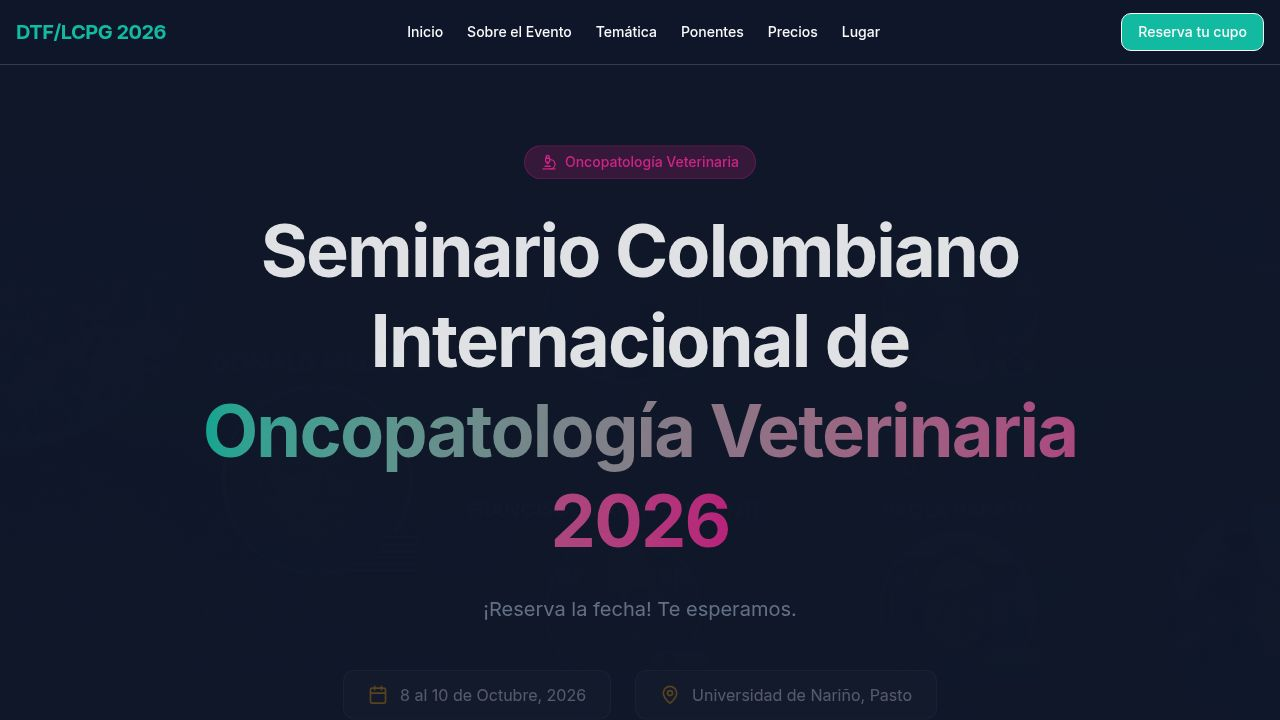
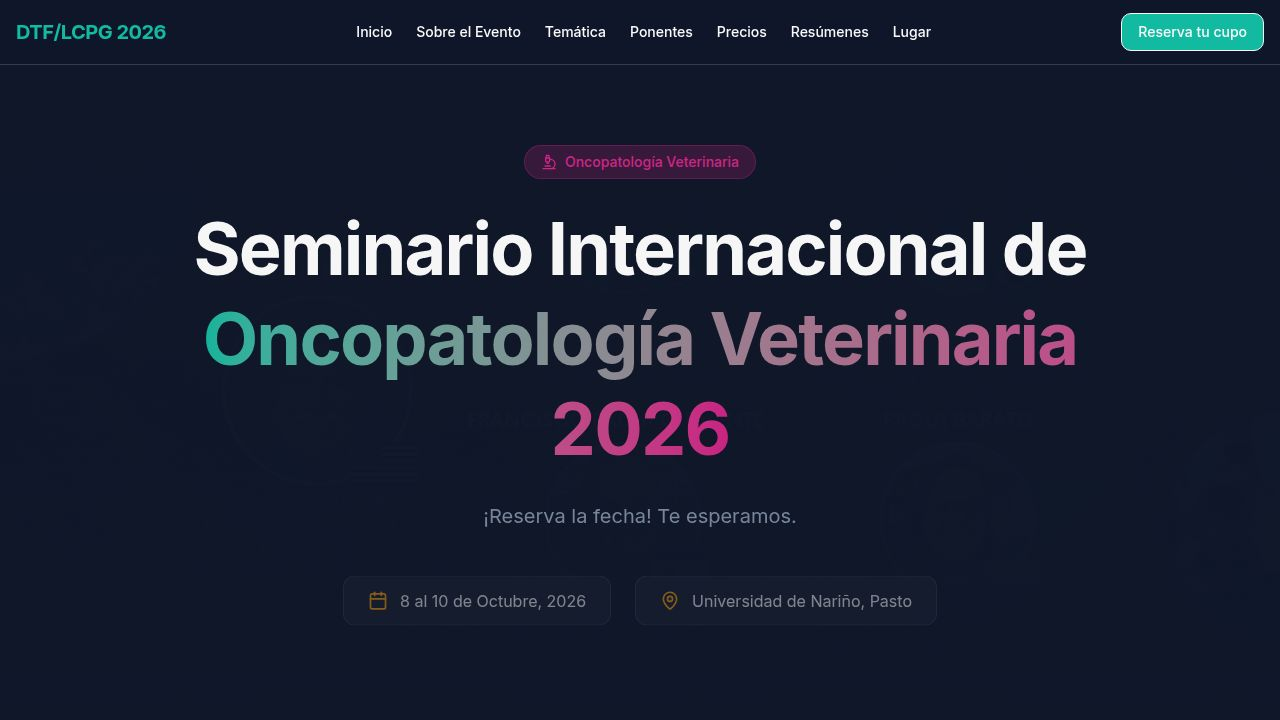
Update the seminar title and add a section for poster abstract submissions
Update the main seminar title and add a new section for scientific poster abstract submissions, including submission details and a link to an external form.

Replit-Commit-Author: Agent
Replit-Commit-Session-Id: 915901ad-4f2d-41da-9350-045fb6e89d9d
Replit-Commit-Checkpoint-Type: full_checkpoint
Replit-Commit-Event-Id: 526079ff-761e-4916-81df-d7132c60a158
Replit-Commit-Screenshot-Url: https://storage.googleapis.com/screenshot-production-us-central1/2b46c752-46d3-47b0-8e8c-2599e17ffcd6/915901ad-4f2d-41da-9350-045fb6e89d9d/qbjjif8
Replit-Helium-Checkpoint-Created: true

diff --git a/artifacts/oncopatologia-2026/src/pages/home.tsx b/artifacts/oncopatologia-2026/src/pages/home.tsx
@@ -1,6 +1,6 @@
 import { Button } from "@/components/ui/button";
 import { Card, CardContent } from "@/components/ui/card";
-import { MapPin, Calendar, Users, Microscope, ChevronDown } from "lucide-react";
+import { MapPin, Calendar, Users, Microscope, ChevronDown, FileText, Award, ClipboardList, BookOpen, Send, CheckCircle2 } from "lucide-react";
 import { motion } from "framer-motion";
 import { Dialog, DialogContent, DialogHeader, DialogTitle, DialogTrigger } from "@/components/ui/dialog";
 
@@ -63,6 +63,7 @@ export default function Home() {
             <a href="#tematica" className="hover:text-primary transition-colors">Temática</a>
             <a href="#ponentes" className="hover:text-primary transition-colors">Ponentes</a>
             <a href="#precios" className="hover:text-primary transition-colors">Precios</a>
+            <a href="#resumenes" className="hover:text-primary transition-colors">Resúmenes</a>
             <a href="#lugar" className="hover:text-primary transition-colors">Lugar</a>
           </div>
           <Button variant="default" className="bg-primary text-primary-foreground hover:bg-primary/90">
@@ -96,7 +97,7 @@ export default function Home() {
             transition={{ duration: 0.8, delay: 0.2 }}
             className="text-4xl md:text-6xl lg:text-7xl font-bold max-w-5xl tracking-tight text-white mb-6 leading-tight"
           >
-            Seminario Colombiano Internacional de <span className="text-transparent bg-clip-text bg-gradient-to-r from-primary to-secondary">Oncopatología Veterinaria 2026</span>
+            Seminario Internacional de <span className="text-transparent bg-clip-text bg-gradient-to-r from-primary to-secondary">Oncopatología Veterinaria 2026</span>
           </motion.h1>
 
           <motion.p 
@@ -348,6 +349,210 @@ export default function Home() {
             <Button size="lg" className="bg-secondary text-white hover:bg-secondary/90 px-8 py-6 text-lg">
               Realizar Pago / Inscripción
             </Button>
+          </div>
+        </div>
+      </section>
+
+      {/* Resúmenes científicos / Pósters */}
+      <section id="resumenes" className="py-24 bg-background relative overflow-hidden">
+        <div className="absolute inset-0 bg-gradient-to-br from-primary/5 via-background to-secondary/5 pointer-events-none"></div>
+        <div className="container mx-auto px-4 max-w-6xl relative z-10">
+          <div className="text-center mb-16">
+            <div className="inline-flex items-center space-x-2 bg-secondary/15 text-secondary border border-secondary/30 px-4 py-1.5 rounded-full text-sm font-medium mb-6">
+              <FileText className="w-4 h-4" />
+              <span>Convocatoria abierta</span>
+            </div>
+            <h2 className="text-3xl md:text-5xl font-bold mb-4">Presentación de Resúmenes Científicos en Pósters</h2>
+            <p className="text-lg text-muted-foreground max-w-3xl mx-auto leading-relaxed">
+              El Comité Organizador invita a profesionales, investigadores, docentes y estudiantes de medicina veterinaria y áreas afines a presentar resúmenes científicos para su exposición en modalidad póster.
+            </p>
+          </div>
+
+          {/* Objetivo */}
+          <div className="grid md:grid-cols-2 gap-6 mb-12">
+            <Card className="bg-card/60 backdrop-blur border-border/60 hover:border-primary/40 transition-colors">
+              <CardContent className="p-8">
+                <div className="flex items-center gap-3 mb-4">
+                  <div className="w-10 h-10 rounded-lg bg-primary/15 flex items-center justify-center">
+                    <BookOpen className="w-5 h-5 text-primary" />
+                  </div>
+                  <h3 className="text-xl font-semibold">Objetivo</h3>
+                </div>
+                <p className="text-muted-foreground leading-relaxed">
+                  Promover la difusión de avances científicos en oncopatología veterinaria y patología comparada del cáncer, con énfasis en el diagnóstico clínico, histopatológico, anatomopatológico y el uso de técnicas innovadoras.
+                </p>
+              </CardContent>
+            </Card>
+
+            <Card className="bg-card/60 backdrop-blur border-border/60 hover:border-secondary/40 transition-colors">
+              <CardContent className="p-8">
+                <div className="flex items-center gap-3 mb-4">
+                  <div className="w-10 h-10 rounded-lg bg-secondary/15 flex items-center justify-center">
+                    <Calendar className="w-5 h-5 text-secondary" />
+                  </div>
+                  <h3 className="text-xl font-semibold">Fechas importantes</h3>
+                </div>
+                <ul className="space-y-3 text-muted-foreground">
+                  <li className="flex justify-between gap-4 pb-2 border-b border-border/40">
+                    <span>Inicio de recepción</span>
+                    <span className="text-foreground font-medium whitespace-nowrap">1 de mayo de 2026</span>
+                  </li>
+                  <li className="flex justify-between gap-4 pb-2 border-b border-border/40">
+                    <span>Límite de envío</span>
+                    <span className="text-foreground font-medium whitespace-nowrap">15 de agosto de 2026</span>
+                  </li>
+                  <li className="flex justify-between gap-4">
+                    <span>Notificación de aceptación</span>
+                    <span className="text-foreground font-medium whitespace-nowrap">30 de agosto de 2026</span>
+                  </li>
+                </ul>
+              </CardContent>
+            </Card>
+          </div>
+
+          {/* Ejes temáticos */}
+          <Card className="bg-card/60 backdrop-blur border-border/60 mb-12">
+            <CardContent className="p-8">
+              <div className="flex items-center gap-3 mb-6">
+                <div className="w-10 h-10 rounded-lg bg-accent/15 flex items-center justify-center">
+                  <Microscope className="w-5 h-5 text-accent" />
+                </div>
+                <h3 className="text-xl font-semibold">Ejes temáticos</h3>
+              </div>
+              <p className="text-sm text-muted-foreground mb-5">Los trabajos deberán enmarcarse en uno o más de los siguientes ejes:</p>
+              <div className="grid md:grid-cols-2 gap-4">
+                {[
+                  "Patología veterinaria oncológica (innovación, IA, patología digital, telepatología)",
+                  "Diagnóstico histopatológico y anatomopatológico de neoplasias en animales",
+                  "Correlación clínico–patológica en oncología veterinaria",
+                  "Técnicas moleculares y diagnóstico avanzado: PCR, RT-PCR, qPCR, IHQ, hibridación in situ, secuenciación y biomarcadores",
+                  "Oncopatología veterinaria: clasificación tumoral, marcadores pronósticos y patogénesis del cáncer",
+                  "Patología comparada (animal–humano, modelos animales de cáncer humano)"
+                ].map((eje, i) => (
+                  <div key={i} className="flex items-start gap-3 text-sm text-muted-foreground">
+                    <span className="flex-shrink-0 w-6 h-6 rounded-full bg-primary/15 text-primary text-xs font-semibold flex items-center justify-center mt-0.5">{i + 1}</span>
+                    <span className="leading-relaxed">{eje}</span>
+                  </div>
+                ))}
+              </div>
+            </CardContent>
+          </Card>
+
+          {/* Requisitos del resumen + Modalidad póster */}
+          <div className="grid md:grid-cols-2 gap-6 mb-12">
+            <Card className="bg-card/60 backdrop-blur border-border/60">
+              <CardContent className="p-8">
+                <div className="flex items-center gap-3 mb-5">
+                  <div className="w-10 h-10 rounded-lg bg-primary/15 flex items-center justify-center">
+                    <ClipboardList className="w-5 h-5 text-primary" />
+                  </div>
+                  <h3 className="text-xl font-semibold">Requisitos del resumen</h3>
+                </div>
+                <ul className="space-y-3 text-sm text-muted-foreground">
+                  <li className="flex items-start gap-2"><CheckCircle2 className="w-4 h-4 text-primary flex-shrink-0 mt-0.5" /><span><strong className="text-foreground">Fuente:</strong> Times New Roman, 12 pt, interlineado doble.</span></li>
+                  <li className="flex items-start gap-2"><CheckCircle2 className="w-4 h-4 text-primary flex-shrink-0 mt-0.5" /><span><strong className="text-foreground">Extensión máxima:</strong> 300 palabras (~2.000 caracteres), excluyendo título y autores.</span></li>
+                  <li className="flex items-start gap-2"><CheckCircle2 className="w-4 h-4 text-primary flex-shrink-0 mt-0.5" /><span><strong className="text-foreground">Idioma:</strong> español, portugués o inglés.</span></li>
+                  <li className="flex items-start gap-2"><CheckCircle2 className="w-4 h-4 text-primary flex-shrink-0 mt-0.5" /><span><strong className="text-foreground">Estructura obligatoria:</strong> título, autores, autor de correspondencia (nombre completo, afiliación, correo, institución, país), palabras clave (máx. 5).</span></li>
+                  <li className="flex items-start gap-2"><CheckCircle2 className="w-4 h-4 text-primary flex-shrink-0 mt-0.5" /><span><strong className="text-foreground">Texto del resumen:</strong> introducción, objetivo, materiales y métodos, resultados, conclusiones.</span></li>
+                  <li className="flex items-start gap-2"><CheckCircle2 className="w-4 h-4 text-primary flex-shrink-0 mt-0.5" /><span>Debe incluir descripción histopatológica detallada y un diagnóstico histopatológico final.</span></li>
+                  <li className="flex items-start gap-2"><CheckCircle2 className="w-4 h-4 text-primary flex-shrink-0 mt-0.5" /><span>Se aceptan reportes de casos, trabajos originales, resultados preliminares y revisiones de literatura.</span></li>
+                </ul>
+                <p className="mt-5 text-xs text-muted-foreground/80 italic">
+                  Se valorará positivamente el uso de técnicas diagnósticas complementarias (moleculares, inmunohistoquímicas) y el enfoque de patología comparada con humanos.
+                </p>
+              </CardContent>
+            </Card>
+
+            <Card className="bg-card/60 backdrop-blur border-border/60">
+              <CardContent className="p-8">
+                <div className="flex items-center gap-3 mb-5">
+                  <div className="w-10 h-10 rounded-lg bg-secondary/15 flex items-center justify-center">
+                    <FileText className="w-5 h-5 text-secondary" />
+                  </div>
+                  <h3 className="text-xl font-semibold">Únicamente modalidad póster</h3>
+                </div>
+                <ul className="space-y-3 text-sm text-muted-foreground">
+                  <li className="flex items-start gap-2"><CheckCircle2 className="w-4 h-4 text-secondary flex-shrink-0 mt-0.5" /><span><strong className="text-foreground">Formato:</strong> vertical.</span></li>
+                  <li className="flex items-start gap-2"><CheckCircle2 className="w-4 h-4 text-secondary flex-shrink-0 mt-0.5" /><span><strong className="text-foreground">Dimensiones sugeridas:</strong> 90 cm x 120 cm.</span></li>
+                  <li className="flex items-start gap-2"><CheckCircle2 className="w-4 h-4 text-secondary flex-shrink-0 mt-0.5" /><span><strong className="text-foreground">Contenido mínimo:</strong> título, autores y afiliación.</span></li>
+                  <li className="flex items-start gap-2"><CheckCircle2 className="w-4 h-4 text-secondary flex-shrink-0 mt-0.5" /><span>Introducción y objetivo.</span></li>
+                  <li className="flex items-start gap-2"><CheckCircle2 className="w-4 h-4 text-secondary flex-shrink-0 mt-0.5" /><span>Metodología.</span></li>
+                  <li className="flex items-start gap-2"><CheckCircle2 className="w-4 h-4 text-secondary flex-shrink-0 mt-0.5" /><span>Resultados (incluyendo imágenes macroscópicas o microscópicas).</span></li>
+                  <li className="flex items-start gap-2"><CheckCircle2 className="w-4 h-4 text-secondary flex-shrink-0 mt-0.5" /><span>Conclusiones.</span></li>
+                </ul>
+                <div className="mt-5 p-4 rounded-lg bg-primary/10 border border-primary/20 text-xs text-foreground/90 leading-relaxed">
+                  Únicamente se considerarán resúmenes que se ajusten rigurosamente a los parámetros establecidos. Solo se presentan los pósters de participantes que hayan pagado su inscripción.
+                </div>
+              </CardContent>
+            </Card>
+          </div>
+
+          {/* Premiación */}
+          <Card className="bg-gradient-to-br from-primary/10 via-card/60 to-secondary/10 backdrop-blur border-border/60 mb-12">
+            <CardContent className="p-8">
+              <div className="flex items-center gap-3 mb-6">
+                <div className="w-10 h-10 rounded-lg bg-accent/20 flex items-center justify-center">
+                  <Award className="w-5 h-5 text-accent" />
+                </div>
+                <h3 className="text-xl font-semibold">Premiación</h3>
+              </div>
+              <div className="grid md:grid-cols-2 gap-8">
+                <div>
+                  <h4 className="text-sm uppercase tracking-wider text-primary font-semibold mb-3">Categorías de reconocimiento</h4>
+                  <ul className="space-y-2 text-sm text-muted-foreground">
+                    <li className="flex items-center gap-2"><span className="w-1.5 h-1.5 rounded-full bg-primary"></span>Diagnóstico patológico</li>
+                    <li className="flex items-center gap-2"><span className="w-1.5 h-1.5 rounded-full bg-primary"></span>Innovación</li>
+                    <li className="flex items-center gap-2"><span className="w-1.5 h-1.5 rounded-full bg-primary"></span>Patología comparada</li>
+                    <li className="flex items-center gap-2"><span className="w-1.5 h-1.5 rounded-full bg-primary"></span>Mejor trabajo estudiantil</li>
+                  </ul>
+
+                  <h4 className="text-sm uppercase tracking-wider text-secondary font-semibold mt-6 mb-3">Criterios diferenciales</h4>
+                  <ul className="space-y-2 text-sm text-muted-foreground">
+                    <li className="flex items-center gap-2"><span className="w-1.5 h-1.5 rounded-full bg-secondary"></span>Innovación técnica</li>
+                    <li className="flex items-center gap-2"><span className="w-1.5 h-1.5 rounded-full bg-secondary"></span>Impacto en salud pública o clínica</li>
+                    <li className="flex items-center gap-2"><span className="w-1.5 h-1.5 rounded-full bg-secondary"></span>Relevancia en patología comparada con humanos</li>
+                  </ul>
+                </div>
+                <div>
+                  <h4 className="text-sm uppercase tracking-wider text-accent font-semibold mb-3">Premios para los mejores trabajos</h4>
+                  <ul className="space-y-3 text-sm text-muted-foreground">
+                    <li className="flex items-start gap-2">
+                      <Award className="w-4 h-4 text-accent flex-shrink-0 mt-0.5" />
+                      <span>Publicación del artículo completo (1°, 2° y 3° puesto) en las memorias de la <em>Revista de Investigación Pecuaria de la Universidad de Nariño</em>.</span>
+                    </li>
+                    <li className="flex items-start gap-2">
+                      <Award className="w-4 h-4 text-accent flex-shrink-0 mt-0.5" />
+                      <span>Membresía LCPG 2027 para los autores presentadores del 1°, 2° y 3° puesto.</span>
+                    </li>
+                    <li className="flex items-start gap-2">
+                      <Award className="w-4 h-4 text-accent flex-shrink-0 mt-0.5" />
+                      <span>Reconocimiento escrito.</span>
+                    </li>
+                  </ul>
+                </div>
+              </div>
+            </CardContent>
+          </Card>
+
+          {/* CTA al formulario */}
+          <div className="text-center bg-card/40 backdrop-blur border border-border/60 rounded-2xl p-10">
+            <h3 className="text-2xl md:text-3xl font-bold mb-3">Envío de resúmenes</h3>
+            <p className="text-muted-foreground max-w-2xl mx-auto mb-8">
+              Registra tu resumen completando el formulario oficial. ¡Esperamos tu participación para fortalecer la oncopatología veterinaria desde una perspectiva diagnóstica, molecular y comparativa!
+            </p>
+            <a
+              href="https://forms.gle/kzTP7N56HkPdQTwo8"
+              target="_blank"
+              rel="noopener noreferrer"
+              className="inline-flex items-center gap-3 bg-primary text-primary-foreground hover:bg-primary/90 px-8 py-4 rounded-lg text-lg font-semibold transition-colors shadow-lg shadow-primary/20"
+              data-testid="link-submit-abstract"
+            >
+              <Send className="w-5 h-5" />
+              Enviar mi resumen
+            </a>
+            <p className="mt-4 text-xs text-muted-foreground/80 break-all">
+              forms.gle/kzTP7N56HkPdQTwo8
+            </p>
           </div>
         </div>
       </section>

diff --git a/artifacts/oncopatologia-2026/index.html b/artifacts/oncopatologia-2026/index.html
@@ -3,7 +3,7 @@
   <head>
     <meta charset="UTF-8" />
     <meta name="viewport" content="width=device-width, initial-scale=1.0, maximum-scale=1" />
-    <title>Seminario Oncopatología Veterinaria 2026</title>
+    <title>Seminario Internacional de Oncopatología Veterinaria 2026</title>
     <link rel="icon" type="image/svg+xml" href="/favicon.svg" />
     <link rel="preconnect" href="https://fonts.googleapis.com">
     <link rel="preconnect" href="https://fonts.gstatic.com" crossorigin>